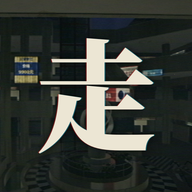
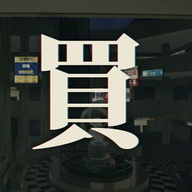
標題改成「買夠」

Changed region(s): [[0.1562, 0.1562, 0.8125, 0.8125]]

diff --git a/index.html b/index.html
@@ -2,26 +2,26 @@
 <html lang="zh-Hant">
 <head>
 <meta charset="utf-8">
-<title>走失</title>
+<title>買夠</title>
 <meta name="viewport" content="width=device-width,initial-scale=1,maximum-scale=1,user-scalable=no,viewport-fit=cover">
 <link rel="icon" type="image/png" sizes="192x192" href="icon-192.png">
 <link rel="apple-touch-icon" href="apple-touch-icon.png">
 <link rel="manifest" href="manifest.webmanifest">
-<meta name="apple-mobile-web-app-title" content="走失">
+<meta name="apple-mobile-web-app-title" content="買夠">
 <meta name="apple-mobile-web-app-capable" content="yes">
 <meta name="mobile-web-app-capable" content="yes">
 <meta name="apple-mobile-web-app-status-bar-style" content="black">
 <meta name="theme-color" content="#000000">
 <meta name="description" content="第一人稱的台式閾限空間漫遊：一座會讓人迷路的老商場，沒有目的、沒有通關，像一卷回憶錄影帶。">
 <meta property="og:type" content="website">
-<meta property="og:title" content="走失">
+<meta property="og:title" content="買夠">
 <meta property="og:description" content="第一人稱的台式閾限空間漫遊：一座會讓人迷路的老商場，沒有目的、沒有通關，像一卷回憶錄影帶。">
 <meta property="og:url" content="https://lins02.github.io/lost-mall/">
 <meta property="og:image" content="https://lins02.github.io/lost-mall/og.jpg">
 <meta property="og:image:width" content="1200">
 <meta property="og:image:height" content="630">
 <meta name="twitter:card" content="summary_large_image">
-<meta name="twitter:title" content="走失">
+<meta name="twitter:title" content="買夠">
 <meta name="twitter:description" content="第一人稱的台式閾限空間漫遊：一座會讓人迷路的老商場，沒有目的、沒有通關，像一卷回憶錄影帶。">
 <meta name="twitter:image" content="https://lins02.github.io/lost-mall/og.jpg">
 <style>html,body{touch-action:none;overscroll-behavior:none;-webkit-user-select:none;user-select:none;-webkit-text-size-adjust:100%}</style>

diff --git a/README.md b/README.md
@@ -1,4 +1,4 @@
-# 走失（試玩）
+# 買夠（試玩）
 
 第一人稱的台式閾限空間漫遊：一座以老商場為底、會讓人迷路的地方。沒有目的、沒有通關，只有一直延伸下去的走道、樓梯、中庭和停車場，像一卷回憶錄影帶。
 
